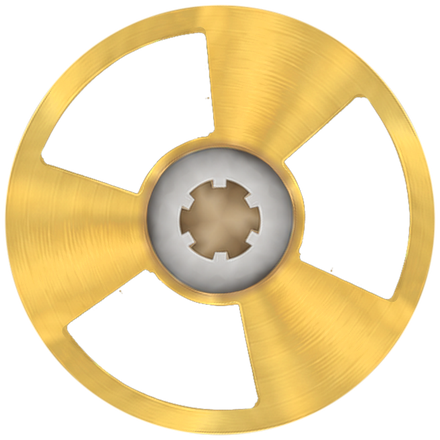
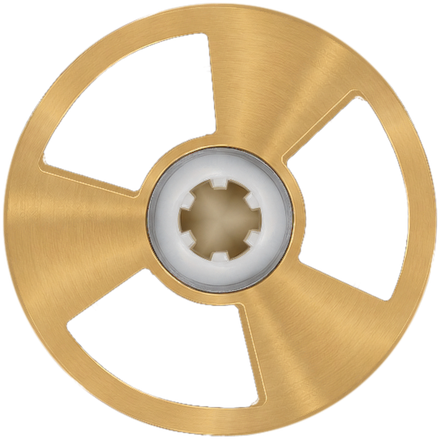
Deck 90 6.13.1: the SO-90 REEL from the new cassette design
Aluminium cassette with clear windows and its own outline (photo + mask),
natural gold reels made symmetric about their true centres over drawn tape
packs. Fold the unpublished 6.12.1 note into this release.

Claude-Session: https://claude.ai/code/session_01CSpiAfwMtvrKp6wf1rN1Pf

diff --git a/src/js/tape90.js b/src/js/tape90.js
@@ -7,7 +7,7 @@
 //  the panel's height; the display and the keys take the width that's left.
 //  Measurements are the mock-up's pixels (it is 725 px tall), scaled by H / 725.
 // ═══════════════════════════════════════════════════════════
-const T90 = {}, T90_FILES = { shell: 'shell.jpg', reel: 'reel.png', display: 'display.jpg', key: 'key.png' };
+const T90 = {}, T90_FILES = { shell: 'shell.jpg', shellMask: 'shell-mask.png', reel: 'reel.png', display: 'display.jpg', key: 'key.png' };
 let t90Loaded = 0;
 const T90_N = Object.keys(T90_FILES).length;
 for (const [k, f] of Object.entries(T90_FILES)) {
@@ -17,6 +17,19 @@ for (const [k, f] of Object.entries(T90_FILES)) {
   T90[k] = im;
 }
 const tape90Ready = () => t90Loaded === T90_N && typeof deck90Ready === 'function' && deck90Ready();
+// the cassette with its own outline: the photo (JPEG) and its shape (a grey mask) put together once
+let t90Shell = null;
+function tapeShell() {
+  if (t90Shell) return t90Shell;
+  const c = document.createElement('canvas'); c.width = T90.shell.width; c.height = T90.shell.height;
+  const x = c.getContext('2d');
+  x.drawImage(T90.shellMask, 0, 0, c.width, c.height);
+  const m = x.getImageData(0, 0, c.width, c.height);                 // grey → alpha
+  for (let i = 0; i < m.data.length; i += 4) { m.data[i + 3] = m.data[i]; }
+  x.putImageData(m, 0, 0);
+  x.globalCompositeOperation = 'source-in'; x.drawImage(T90.shell, 0, 0);
+  return (t90Shell = c);
+}
 const t90Patterns = new WeakMap();
 
 function drawBigTape90(ctx, W, H, play) {
@@ -34,63 +47,56 @@ function drawBigTape90(ctx, W, H, play) {
   ctx.fillStyle = shade; ctx.fillRect(0, 0, W, H);
   ctx.translate(0, oy);
 
-  // ── the SO-90 REEL cassette
-  const sX = P(52), sY = P(102), sW = P(896), sH = P(566);
-  ctx.save(); rr(ctx, sX, sY, sW, sH, P(20)); ctx.shadowColor = 'rgba(0,0,0,.7)'; ctx.shadowBlur = P(18); ctx.shadowOffsetY = P(6);
-  ctx.fillStyle = '#000'; ctx.fill(); ctx.restore();
-  ctx.save(); rr(ctx, sX, sY, sW, sH, P(20)); ctx.clip(); ctx.drawImage(T90.shell, sX, sY, sW, sH); ctx.restore();
-  // its windows: what's behind the glass is drawn fresh — tape packs, the strands to the guides, the turning reels
-  const [rl, rr2] = reelRadii(bigTape.pos), PACK = 150;
-  const wins = [[79, 72, 334, 347, 250.5, 251.25, rl, bigTape.ang[0], false], [464, 72, 349, 347, 630.25, 249.25, rr2, bigTape.ang[1], true]];
-  wins.forEach(([wx, wy, ww, wh, cx, cy, rel, ang, brand]) => {
-    const x0 = sX + P(wx), y0 = sY + P(wy), w = P(ww), h = P(wh), x = sX + P(cx), y = sY + P(cy), R = P(rel * PACK);
-    ctx.save(); rr(ctx, x0, y0, w, h, P(6)); ctx.clip();
-    const bg = ctx.createRadialGradient(x, y, P(20), x, y, P(240));
-    bg.addColorStop(0, '#1d1814'); bg.addColorStop(1, '#060504');
-    ctx.fillStyle = bg; ctx.fillRect(x0, y0, w, h);
-    // the tape pack (seen through the reel's cut-outs) and the strand leaving it towards the bottom guide
-    const g = ctx.createRadialGradient(x, y, P(56), x, y, R);
-    g.addColorStop(0, '#24160e'); g.addColorStop(0.7, '#3b281b'); g.addColorStop(1, '#5a3f2a');
+  // ── the SO-90 REEL cassette: the photo as it is (aluminium, clear windows and the parts behind them);
+  // over each reel, the one that turns. Q() takes the photo's pixels (it is 934 px tall) to the canvas.
+  const sX = P(52), sY = P(102), sH = P(566), sW = sH * 1525 / 934, Q = v => P(v * 566 / 934);
+  ctx.save(); ctx.shadowColor = 'rgba(0,0,0,.65)'; ctx.shadowBlur = P(18); ctx.shadowOffsetY = P(6);
+  ctx.drawImage(tapeShell(), sX, sY, sW, sH); ctx.restore();
+  const [rl, rr2] = reelRadii(bigTape.pos), PACK = 230;          // a full pack, in the photo's pixels
+  [[443.5, 432.5, rl, bigTape.ang[0], false], [1066.5, 429.5, rr2, bigTape.ang[1], true]].forEach(([cx, cy, rel, ang, brand]) => {
+    const x = sX + Q(cx), y = sY + Q(cy), R = Q(rel * PACK);
+    // what's behind the reel: the dark of the case, and the tape pack as it is now
+    const back = ctx.createRadialGradient(x, y, Q(90), x, y, Q(269));
+    back.addColorStop(0, '#191310'); back.addColorStop(1, '#080605');
+    ctx.beginPath(); ctx.arc(x, y, Q(269), 0, Math.PI * 2); ctx.fillStyle = back; ctx.fill();
+    const g = ctx.createRadialGradient(x, y, Q(95), x, y, R);
+    g.addColorStop(0, '#2a1a10'); g.addColorStop(0.7, '#42291a'); g.addColorStop(1, '#5e3f28');
     ctx.beginPath(); ctx.arc(x, y, R, 0, Math.PI * 2); ctx.fillStyle = g; ctx.fill();
-    ctx.strokeStyle = 'rgba(255,220,180,.05)'; ctx.lineWidth = Math.max(0.5, P(1));
-    for (let q = P(60); q < R - P(3); q += P(5)) { ctx.beginPath(); ctx.arc(x, y, q, 0, Math.PI * 2); ctx.stroke(); }
-    ctx.beginPath(); ctx.arc(x, y, R - P(1), 0, Math.PI * 2); ctx.strokeStyle = 'rgba(150,110,78,.7)'; ctx.lineWidth = Math.max(0.8, P(2.5)); ctx.stroke();
-    const side = brand ? 1 : -1;                         // left reel: strand on its left; right reel: on its right
-    ctx.strokeStyle = '#3a2618'; ctx.lineWidth = Math.max(1, P(3));
-    ctx.beginPath(); ctx.moveTo(x + side * R * 0.98, y + R * 0.2); ctx.lineTo(x + side * P(150), y0 + h + P(4)); ctx.stroke();
-    // the reel: gold flange and white hub, one piece turning about its centre
-    const D = P(328);
+    ctx.strokeStyle = 'rgba(255,215,175,.06)'; ctx.lineWidth = Math.max(0.5, Q(1.5));
+    for (let q = Q(100); q < R - Q(4); q += Q(8)) { ctx.beginPath(); ctx.arc(x, y, q, 0, Math.PI * 2); ctx.stroke(); }
+    ctx.beginPath(); ctx.arc(x, y, R - Q(1.5), 0, Math.PI * 2); ctx.strokeStyle = 'rgba(160,118,82,.65)'; ctx.lineWidth = Math.max(0.8, Q(4)); ctx.stroke();
+    // the reel: gold flange and white hub, one piece turning about its true centre
+    const D = Q(540);
     ctx.save(); ctx.translate(x, y); ctx.rotate(ang);
     ctx.drawImage(T90.reel, -D / 2, -D / 2, D, D);
-    if (brand && P(18) >= 6) {                           // DECK 90 printed along the right reel's rim
-      ctx.font = `bold ${Math.round(P(18))}px "Segoe UI", Arial, sans-serif`; ctx.fillStyle = 'rgba(70,48,20,.82)';
+    if (brand && Q(34) >= 6) {                           // DECK 90 along the right reel's rim, as printed on it
+      ctx.font = `bold ${Math.round(Q(34))}px Georgia, "Times New Roman", serif`; ctx.fillStyle = 'rgba(58,40,16,.88)';
       ctx.textAlign = 'center'; ctx.textBaseline = 'middle';
-      const txt = 'DECK 90', rad = P(140); let a0 = -Math.PI / 2 - 0.22;
-      for (const ch of txt) { const cw = ctx.measureText(ch).width / rad; ctx.save(); ctx.rotate(a0 + cw / 2); ctx.fillText(ch, 0, -rad); ctx.restore(); a0 += cw * 1.12; }
+      const rad = Q(226), txt = 'DECK 90';
+      let total = 0; for (const ch of txt) total += ctx.measureText(ch).width * 1.08 / rad;
+      let a0 = -1.95 - total / 2;
+      for (const ch of txt) { const cw = ctx.measureText(ch).width * 1.08 / rad; ctx.save(); ctx.rotate(a0 + cw / 2); ctx.fillText(ch, 0, -rad); ctx.restore(); a0 += cw; }
     }
     ctx.restore();
-    // the light on the reel stays put while it turns
-    const light = ctx.createLinearGradient(x - P(160), y - P(160), x + P(160), y + P(160));
-    light.addColorStop(0, 'rgba(255,240,200,.14)'); light.addColorStop(.5, 'rgba(255,255,255,0)'); light.addColorStop(1, 'rgba(0,0,0,.12)');
-    ctx.beginPath(); ctx.arc(x, y, P(161), 0, Math.PI * 2); ctx.fillStyle = light; ctx.fill();
-    // the window's smoked glass: a reflection at the top left, a shadow along the frame
-    const refl = ctx.createLinearGradient(x0, y0, x0 + w * 0.6, y0 + h * 0.6);
-    refl.addColorStop(0, 'rgba(255,255,255,.15)'); refl.addColorStop(.18, 'rgba(255,255,255,.03)'); refl.addColorStop(.19, 'rgba(255,255,255,0)');
-    ctx.fillStyle = refl; ctx.fillRect(x0, y0, w, h);
-    ctx.lineWidth = P(10); ctx.strokeStyle = 'rgba(0,0,0,.35)'; rr(ctx, x0, y0, w, h, P(6)); ctx.stroke();
-    ctx.restore();
+    // the light on it stays put; the clear window's glare over the top left
+    const light = ctx.createLinearGradient(x - Q(266), y - Q(266), x + Q(266), y + Q(266));
+    light.addColorStop(0, 'rgba(255,248,230,.10)'); light.addColorStop(.5, 'rgba(255,255,255,0)'); light.addColorStop(1, 'rgba(0,0,0,.10)');
+    ctx.beginPath(); ctx.arc(x, y, Q(267), 0, Math.PI * 2); ctx.fillStyle = light; ctx.fill();
+    const glare = ctx.createLinearGradient(x - Q(300), y - Q(300), x, y);
+    glare.addColorStop(0, 'rgba(255,255,255,.16)'); glare.addColorStop(.32, 'rgba(255,255,255,.03)'); glare.addColorStop(.33, 'rgba(255,255,255,0)');
+    ctx.fillStyle = glare; ctx.fill();
   });
   // the label: side, the song, the tape's name
   const song = np && np.title ? (np.artist ? np.artist + ' – ' : '') + np.title : 'DECK 90';
-  if (P(26) >= 6) {
+  if (Q(46) >= 6) {
     ctx.textBaseline = 'middle';
-    ctx.font = `600 ${Math.round(P(25))}px "Segoe UI", "Helvetica Neue", Arial, sans-serif`; ctx.textAlign = 'right'; ctx.fillStyle = '#3c3c40';
-    ctx.fillText('SO-90 REEL', sX + P(835), sY + P(33));
-    const room = P(835 - 72) - ctx.measureText('SO-90 REEL').width - P(30);
-    ctx.font = `500 ${Math.round(P(26))}px "Segoe UI", "Helvetica Neue", Arial, sans-serif`; ctx.textAlign = 'left'; ctx.fillStyle = '#3f3f43';
-    let t = 'A  •  ' + song;
+    ctx.font = `500 ${Math.round(Q(44))}px "Segoe UI", "Helvetica Neue", Arial, sans-serif`; ctx.textAlign = 'right'; ctx.fillStyle = '#2b2b2e';
+    ctx.fillText('SO-90 REEL', sX + Q(1387), sY + Q(86));
+    const room = Q(1387 - 137) - ctx.measureText('SO-90 REEL').width - Q(50);
+    ctx.font = `500 ${Math.round(Q(46))}px "Segoe UI", "Helvetica Neue", Arial, sans-serif`; ctx.textAlign = 'left';
+    let t = 'A  ·  ' + song;
     if (ctx.measureText(t).width > room) { while (t.length > 6 && ctx.measureText(t + '…').width > room) t = t.slice(0, -1); t = t.trimEnd() + '…'; }
-    ctx.fillText(t, sX + P(72), sY + P(33));
+    ctx.fillText(t, sX + Q(137), sY + Q(86));
   }
 
   // ── the display, from the cassette to the right edge

diff --git a/CHANGELOG.md b/CHANGELOG.md
@@ -1,9 +1,9 @@
 # Changelog
 
-## 6.12.1
+## 6.13.1
 
 ### Changed
-- The SO-90 REEL's reels are a brighter, yellower gold (they looked brownish): richer colour, and a softer shade and glass reflection over them.
+- **The SO-90 REEL is the new cassette design**: the aluminium cassette with clear windows that show the case's inside (guides, rollers, the tape's path), natural brushed-gold reels with white hubs — rebuilt about their true centres, so they turn without wobbling — over the brown tape packs that change size as the side plays, and DECK 90 in serif along the right reel's rim. The cassette keeps its own outline (rounded corners, side steps). The label: side, the song, SO-90 REEL.
 
 ## 6.13.0
 
